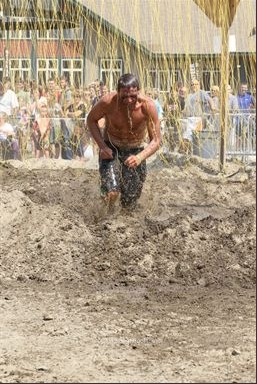
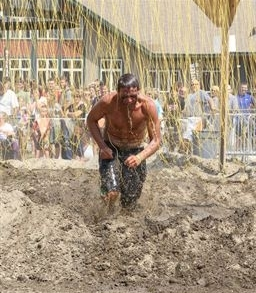
Picture reupload

diff --git a/pages/fitness.html b/pages/fitness.html
@@ -1,24 +1,15 @@
 <!-- fitness.html -->
 <div class="fitnessflexer">
     <div class="card">
-        <img id="postfitness" src="http://www.mikeneas.com/assets/me/crosscheck.jpg" alt="postgym" width="300">
+        <img id="postfitness" src="http://www.mikeneas.com/assets/me/crosscheck.jpg" alt="crosscheck" width="400">
         <div class="card-container">
         	<h1>Sports</h1>
         	<h2>Lacrosse</h2>
         	<h2>Football</h2>
         </div>
     </div>
-    <div class="card">
-        <img id="postfitness" src="http://www.mikeneas.com/assets/me/electric" alt="postgym" width="300">
-        <div class="card-container">
-        	<h1>Cardio</h1>
-        	<h2>Distance</h2>
-        	5k's
-        	<h2>Sprinting</h2>
-        </div>
-    </div>
     <div class="card">  
-        <img id="postfitness" src="http://www.mikeneas.com/assets/me/winner.jpg" alt="postgym" width="300">
+        <img id="postfitness" src="http://www.mikeneas.com/assets/me/winner.jpg" alt="winner" width="400">
         <div class="card-container">
             <h1>Challenges</h1>
             <h2>Tough Mudder</h2>
@@ -27,7 +18,7 @@
         </div>
     </div>
     <div class="card">  
-        <img id="postfitness" src="http://www.mikeneas.com/assets/images/postfitness.jpg" alt="postgym" width="300">
+        <img id="postfitness" src="http://www.mikeneas.com/assets/images/postfitness.jpg" alt="postgym" width="400">
         <div class="card-container">
         	<h1>Gym</h1>
         	<h2>Body Weight</h2>
@@ -35,7 +26,16 @@
         </div>
     </div>
     <div class="card">
-        <img id="postfitness" src="http://www.mikeneas.com/assets/me/skimmin.jpg" alt="postgym" width="300">
+        <img id="postfitness" src="http://www.mikeneas.com/assets/me/electric.png" alt="electric" width="400">
+        <div class="card-container">
+            <h1>Cardio</h1>
+            <h2>Distance</h2>
+            5k's
+            <h2>Sprinting</h2>
+        </div>
+    </div>
+    <div class="card">
+        <img id="postfitness" src="http://www.mikeneas.com/assets/me/skimmin.jpg" alt="skimmin" width="400">
         <div class="card-container">
         	<h1>Diet</h1>
         	<h2>Dos</h2>

diff --git a/css/neasy.css b/css/neasy.css
@@ -137,7 +137,7 @@ main{
     /* Add shadows to create the "card" effect */
     box-shadow: 0 4px 8px 0 rgba(0,0,0,0.2);
     transition: 0.3s;
-    width: 300px;
+    width: 400px;
     box-shadow: 0 4px 8px 0 rgba(0,0,0,0.2);
     transition: 0.3s;
     background-color: rgba(127, 131, 255, 0.7);
